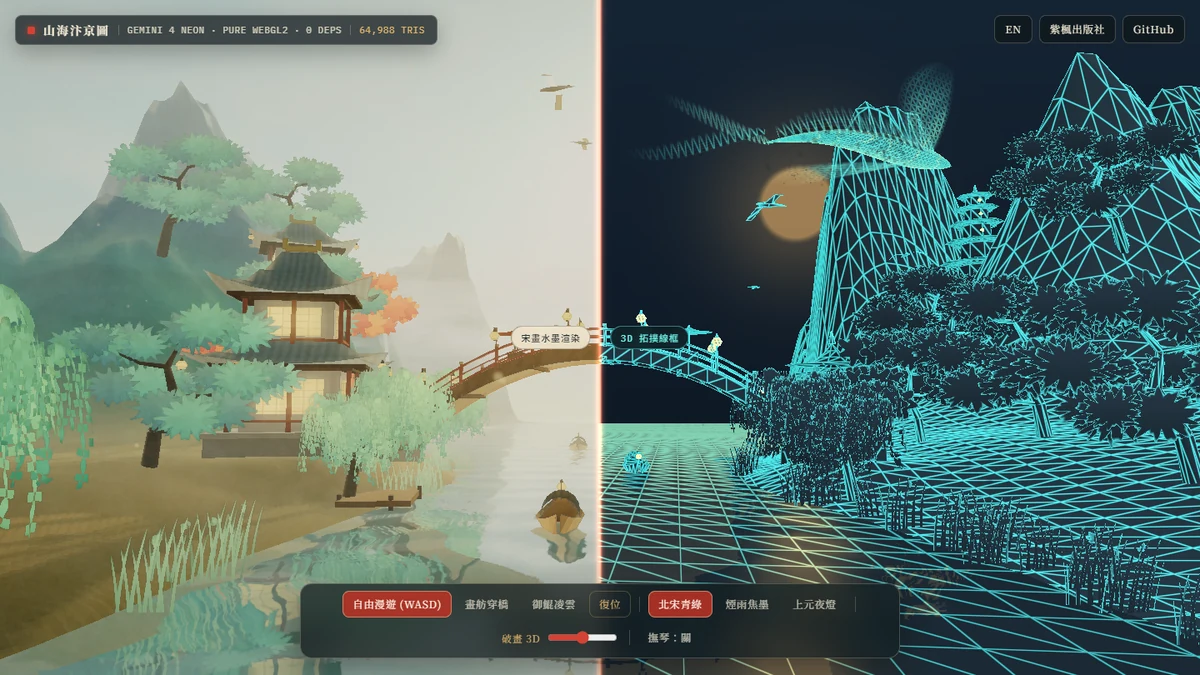
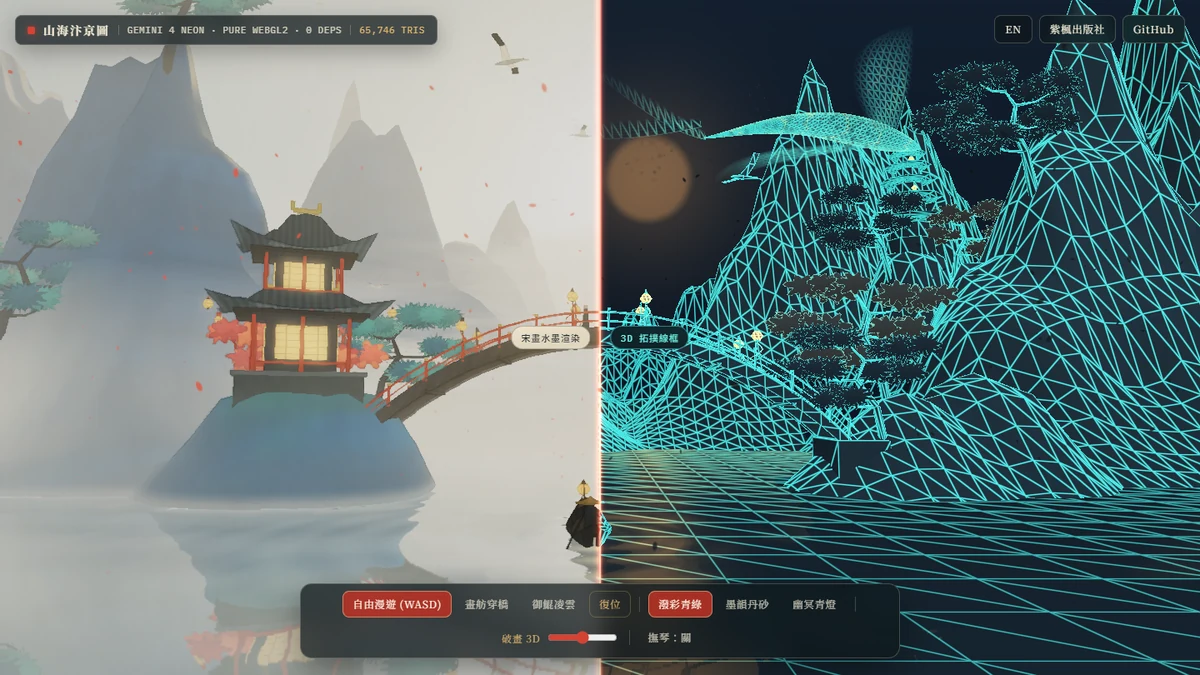
feat(learn): upgrade Shan Hai Bianjing 3D showcase to v3 fine-art splash-ink edition

diff --git a/build_site.py b/build_site.py
@@ -2761,59 +2761,59 @@ def render_ai_coding_showcase(locale_code: str) -> str:
     )
     packs = {
         "zh-TW": {
-            "badge": "AI CODING LIVE DEMO · PURE WEBGL2 v2",
-            "title": "《山海汴京圖》：走進清明上河圖 × 山海經 3D 即時水墨世界",
+            "badge": "AI CODING LIVE DEMO · PURE WEBGL2 v3",
+            "title": "《山海汴京圖》：走進潑彩水墨 × 山海經 3D 活古卷",
             "summary": (
-                "第一秒以為是靜止的北宋青綠水墨古卷，滑鼠一拖或點「踏入畫卷」，整個世界直接化為可 360° 第一人稱自由飛行的 3D 山河——"
-                "泛舟穿過《清明上河圖》汴水虹橋倒影、仰望《山海經》流金墨靈巨鯤游過千里青綠山嵐與飛檐樓閣。"
-                "本作品由紫楓策劃、Gemini 4 Neon 以純原生 WebGL2 零外部框架全自動寫成（零貼圖、零模型檔、零音檔），支援即時拉開「3D 線框幕簾」透視 65,000 個程序化三角形。"
+                "第一秒以為是張大千潑彩與宋元水墨古卷，滑鼠一拖或點「踏入畫卷」，整幅畫直接破紙化為可 360° 第一人稱漫遊的 3D 山河——"
+                "七層喀斯特奇峰從無邊鏡面墨海拔地而起，孤舟簑笠翁盪開墨暈漣漪，穿過《清明上河圖》長虹橋與滿天落紅花瓣，仰望《山海經》流金巨鯤游過雲海。"
+                "由紫楓策劃美術方向、Gemini 4 Neon 以純原生 WebGL2 零外部框架全自動寫成（零貼圖、零模型檔、零音檔），支援即時拉開「3D 線框幕簾」透視 65,700+ 三角形。"
             ),
-            "heading": "零依賴純 WebGL2 五段式次世代水墨管線亮點",
+            "heading": "用純粹東方美術藏掉網頁渲染極限：v3 潑墨宣紙引擎亮點",
             "points": [
-                "真實即時鏡面水面倒影＋1024px PCF 軟陰影：以鏡像攝影機即時繪製汴河倒影，搭配太陽方向軟陰影與飛檐翹角宋式樓閣、雲頂寶塔。",
-                "GPU 水墨點葉筆刷＋方向性 Kuwahara 繪畫濾鏡：捨棄傳統圓球低模樹，全以 Shader 即時手繪松針、垂柳、丹楓與蘆葦筆觸，並以四象限 Kuwahara 濾鏡重現《千里江山圖》青綠渲染質感。",
-                "360° 第一人稱自由漫遊 × 體積耶穌光與暖燈 Bloom：滑鼠拖曳零遮擋環顧、WASD／滾輪飛行穿橋，一鍵切換北宋青綠／煙雨焦墨／上元夜燈與原生 Web Audio 古琴泛音。",
+                "山腳留白・水天一色：徹底拋棄傳統 3D 泥地斜坡，七層奇峰直接自鏡面墨水與宣紙雲霧拔起，搭配領域扭曲潑彩水暈（Domain-Warped Splash-Ink）與金碧泥金勾勒。",
+                "宣紙毛細滲墨＋水痕邊＋灑金紙纖：後處理讓 3D 多邊形邊緣順著宣紙纖維極細滲墨暈開，結合四象限 Kuwahara 筆觸與水彩水痕邊，畫面徹底去 CG 塑膠感。",
+                "360° 第一人稱零遮擋漫遊 × 三大博物館級畫風：一鍵切換「潑彩青綠／墨韻丹砂／幽冥青燈」，伴隨孤舟漣漪倒影、漫天 3D 落紅花瓣與原生 Web Audio 古琴泛音。",
             ],
-            "alt": "山海汴京圖 v2 WebGL2 即時 3D 水墨世界：左側宋代青綠水墨與水面倒影、右側 65,000 三角形 3D 拓撲線框對照實機畫面",
+            "alt": "山海汴京圖 v3 WebGL2 即時 3D 潑彩水墨世界：左側灑金宣紙古畫與孤舟倒影、右側 65,700 三角形 3D 拓撲線框對照實機畫面",
             "cta_demo": "踏入 3D 水墨畫卷 (Live Demo)",
             "cta_repo": "GitHub 開源原始碼 (MIT)",
             "cta_svg": "另看：Formosa SVG X-Ray 8 層 3D 台灣圖鑑",
         },
         "zh-CN": {
-            "badge": "AI CODING LIVE DEMO · PURE WEBGL2 v2",
-            "title": "《山海汴京图》：走进清明上河图 × 山海经 3D 实时水墨世界",
+            "badge": "AI CODING LIVE DEMO · PURE WEBGL2 v3",
+            "title": "《山海汴京图》：走进泼彩水墨 × 山海经 3D 活古卷",
             "summary": (
-                "第一秒以为是静止的北宋青绿水墨古卷，鼠标一拖或点击「踏入画卷」，整个世界直接化为可 360° 第一人称自由飞行的 3D 山河——"
-                "泛舟穿过《清明上河图》汴水虹桥倒影、仰望《山海经》流金墨灵巨鲲游过千里青绿山岚与飞檐楼阁。"
-                "本作品由紫枫策划、Gemini 4 Neon 以纯原生 WebGL2 零外部框架全自动写成（零贴图、零模型文件、零音频），支持实时拉开「3D 线框幕帘」透视 65,000 个程序化三角形。"
+                "第一秒以为是张大千泼彩与宋元水墨古卷，鼠标一拖或点击「踏入画卷」，整幅画直接破纸化为可 360° 第一人称漫游的 3D 山河——"
+                "七层喀斯特奇峰从无边镜面墨海拔地而起，孤舟蓑笠翁荡开墨晕涟漪，穿过长虹桥与满天落红花瓣，仰望《山海经》流金巨鲲游过云海。"
+                "由紫枫策划美术方向、Gemini 4 Neon 以纯原生 WebGL2 零外部框架全自动写成，支持实时拉开「3D 线框幕帘」透视 65,700+ 三角形。"
             ),
-            "heading": "零依赖纯 WebGL2 五段式次世代水墨管线亮点",
+            "heading": "用纯粹东方美术藏掉网页渲染极限：v3 泼墨宣纸引擎亮点",
             "points": [
-                "真实实时镜面水面倒影＋1024px PCF 软阴影：以镜像摄像机实时渲染汴河倒影，搭配太阳软阴影与飞檐翘角宋式楼阁、云顶宝塔。",
-                "GPU 水墨点叶笔刷＋方向性 Kuwahara 绘画滤镜：告别球体低模树，全由 Shader 实时绘制松针、垂柳、丹枫与芦苇笔触，重现《千里江山图》青绿渲染。",
-                "360° 第一人称自由漫游 × 体积耶稣光与暖灯 Bloom：鼠标拖拽无遮挡环顾、WASD／滚轮飞行穿桥，一键切换北宋青绿／烟雨焦墨／上元夜灯与古琴合成音。",
+                "山脚留白・水天一色：抛弃传统 3D 泥地斜坡，七层奇峰直接自镜面墨水与宣纸云雾拔起，搭配领域扭曲泼彩水晕与金碧泥金勾勒。",
+                "宣纸毛细渗墨＋水痕边＋洒金纸纤：后处理让 3D 多边形边缘顺着宣纸纤维细微渗墨晕开，结合 Kuwahara 笔触与水彩水痕边，彻底消除 CG 塑料感。",
+                "360° 第一人称无遮挡漫游 × 三大博物馆级画风：一键切换「泼彩青绿／墨韵丹砂／幽冥青灯」，伴随孤舟涟漪倒影、3D 落红花瓣与古琴泛音。",
             ],
-            "alt": "山海汴京图 v2 WebGL2 实时 3D 水墨世界：左侧宋代青绿古画与倒影、右侧 3D 几何线框幕帘对照实机截图",
+            "alt": "山海汴京图 v3 WebGL2 实时 3D 泼彩水墨世界：左侧洒金宣纸古画与孤舟倒影、右侧 3D 几何线框幕帘对照实机截图",
             "cta_demo": "踏入 3D 水墨画卷 (Live Demo)",
             "cta_repo": "GitHub 开源源码 (MIT)",
             "cta_svg": "另看：Formosa SVG X-Ray 台湾 3D 图鉴",
         },
         "en": {
-            "badge": "AI CODING LIVE DEMO · PURE WEBGL2 v2",
-            "title": "Shan Hai Bianjing 3D: Step Inside a Living Qingming × Shan Hai Jing Ink Scroll",
+            "badge": "AI CODING LIVE DEMO · PURE WEBGL2 v3",
+            "title": "Shan Hai Bianjing 3D: A Living Splash-Ink Song Scroll in Pure WebGL2",
             "summary": (
-                "At first glance it looks like a museum Northern-Song ink scroll — until you drag the mouse and fly 360° in "
-                "first person under the mirrored arch of the Rainbow Bridge beneath a celestial Shan Hai Jing Spirit Kun. "
-                "Autonomously written by Gemini 4 Neon in pure zero-dependency WebGL2 (no Three.js, no external meshes, textures, "
-                "or audio files) with a live Song-Painting-to-3D-Wireframe reveal curtain across 65,000 procedural triangles."
+                "At first glance it looks like an antique Zhang Daqian splash-ink hanging scroll — until you drag the mouse "
+                "and glide 360° in first person past a lone bamboo-hatted boatman, through crimson falling petals under the "
+                "Rainbow Bridge, beneath a celestial Shan Hai Jing Giant Kun. Autonomously coded by Gemini 4 Neon in zero-dependency "
+                "WebGL2 with a live Painting-to-3D-Wireframe reveal curtain across 65,700+ procedural triangles."
             ),
-            "heading": "Pure WebGL2 5-Pass Painterly Ink Pipeline Highlights",
+            "heading": "Fine-Art Direction Over Brute-Force 3D: v3 Xuan-Paper Ink Highlights",
             "points": [
-                "True planar mirror water reflections + 1024px PCF soft shadows: real-time mirrored camera FBO reflecting the curved Song pavilions, hanging lanterns, karst peaks, and soaring Spirit Kun.",
-                "GPU calligraphic brush foliage + adaptive 4-sector Kuwahara brushwork filter: procedurally painted pine needles, weeping willow cascades, autumn maples, and reeds with Xuan-paper grain.",
-                "Unobstructed 360° first-person flight × volumetric sun god-rays & lantern bloom: switch seamlessly between Song Jade, Sumi-e Monochrome, and Lantern Night with synthesized Guqin audio.",
+                "Zero muddy ground terrain: 7 receding multi-shouldered karst layers rise directly out of an infinite mirror ink sea with mountain bases dissolving into luminous gold-flecked Xuan paper.",
+                "Capillary Xuan-paper ink-bleed UV warp + watercolor wet-edge pooling: straight polygon edges soften along organic rice-paper fibers paired with domain-warped splash-ink pigment blooms and 4-sector Kuwahara brushwork.",
+                "Unobstructed 360° first-person flight × 3 museum palettes: switch between Splash Jade, Ink & Cinnabar, and Moonlit Gold with concentric boatman ripples, 3D falling petals, and synthesized Guqin audio.",
             ],
-            "alt": "Shan Hai Bianjing 3D v2 real-time WebGL2 split view showing Song ink painting with reflections on the left and 3D wireframe mesh on the right",
+            "alt": "Shan Hai Bianjing 3D v3 real-time WebGL2 split view showing splash-ink Xuan-paper painting with boatman reflection on the left and 3D wireframe mesh on the right",
             "cta_demo": "Enter the 3D Ink Scroll (Live Demo)",
             "cta_repo": "View GitHub Source (MIT)",
             "cta_svg": "Also see: Formosa SVG X-Ray Lab",
